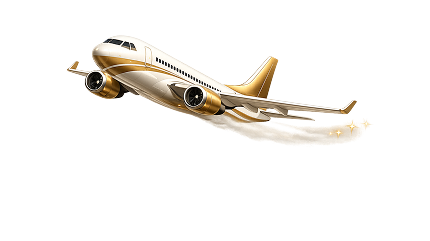
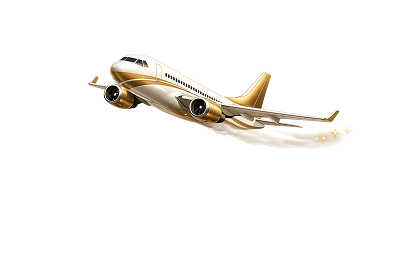
style: 랜딩 페이지 ui 수정

Changed region(s): [[0.1474, 0.1452, 0.8845, 0.61]]

diff --git a/src/pages/LandingPage.styled.js b/src/pages/LandingPage.styled.js
@@ -1,11 +1,21 @@
-import styled from "styled-components";
+import styled, { keyframes } from "styled-components";
 import bgImage from "../assets/images/LandingPage.png";
 import StartBtnImage from "../assets/images/StartBtn.png";
+
+const float = keyframes`
+    0%, 100% {
+        transform: translateY(0px) rotate(0deg);
+    }
+    50% {
+        transform: translateY(-14px) rotate(4deg);
+    }
+`;
 
 export const Wrapper = styled.div`
     display: flex;
     flex-direction: column;
     align-items: center;
+    position: relative;
     width: ${({ theme }) => theme.size.frameWidth};
     height: ${({ theme }) => theme.size.frameHeight};
     background-image: url(${bgImage});
@@ -65,17 +75,12 @@ export const StartButton = styled.button`
     justify-content: space-between;
     width: 450px;
     height: 100px;
-    margin-top: 70px;
+    margin-top: 250px;
     background-image: url(${StartBtnImage});
     background-size: contain;
     background-repeat: no-repeat;
     color: ${({ theme }) => theme.colors.white};
-    font-family: ${({ theme }) => theme.fonts.display};
     filter: drop-shadow(0 1px 1px #000000);
-    font-size: 36px;
-    text-shadow: 0 2px 2px rgba(0, 0, 0, 0.25);
-    letter-spacing: 1.08px;
-    font-weight: 400;
     padding: 0 35px;
 
     &:active{
@@ -100,4 +105,9 @@ export const Arrow = styled.span`
 export const Logo = styled.img`
     margin-top: auto;
     margin-bottom: 22px;
+`;
+
+export const FloatItem = styled.img`
+    position: absolute;
+    animation: ${float} ease-in-out infinite;
 `;

diff --git a/src/pages/LandingPage.jsx b/src/pages/LandingPage.jsx
@@ -3,6 +3,9 @@ import { useChatStore } from "../store/chatStore";
 import titleImage from "../assets/images/Title.png";
 import diamondIcon from "../assets/images/Diamond.svg";
 import logoImage from "../assets/images/Logo.png";
+import airplaneImage from "../assets/images/Airplane.png";
+import ticketImage from "../assets/images/Ticket.png";
+import stickerImage from "../assets/images/Sticker.png";
 import * as S from "./LandingPage.styled";
 
 import { useExperienceStore } from "../store/experienceStore";
@@ -21,6 +24,18 @@ function LandingPage() {
   return (
     <S.Wrapper>
       <S.Title src={titleImage} />
+      <S.FloatItem
+        src={stickerImage}
+        style={{ width: "260px", top: "20px", left: "20px", animationDuration: "4s", transform: "rotate(-7.003deg)" }}
+      />
+      <S.FloatItem
+        src={airplaneImage}
+        style={{ width: "400px", top: "10px", right: "10px", animationDuration: "5s", animationDelay: "0.5s" }}
+      />
+      <S.FloatItem
+        src={ticketImage}
+        style={{ width: "330px", bottom: "250px", left: "0", animationDuration: "3.5s", animationDelay: "1s" }}
+      />
 
       <S.Divider>
         <S.Line />
